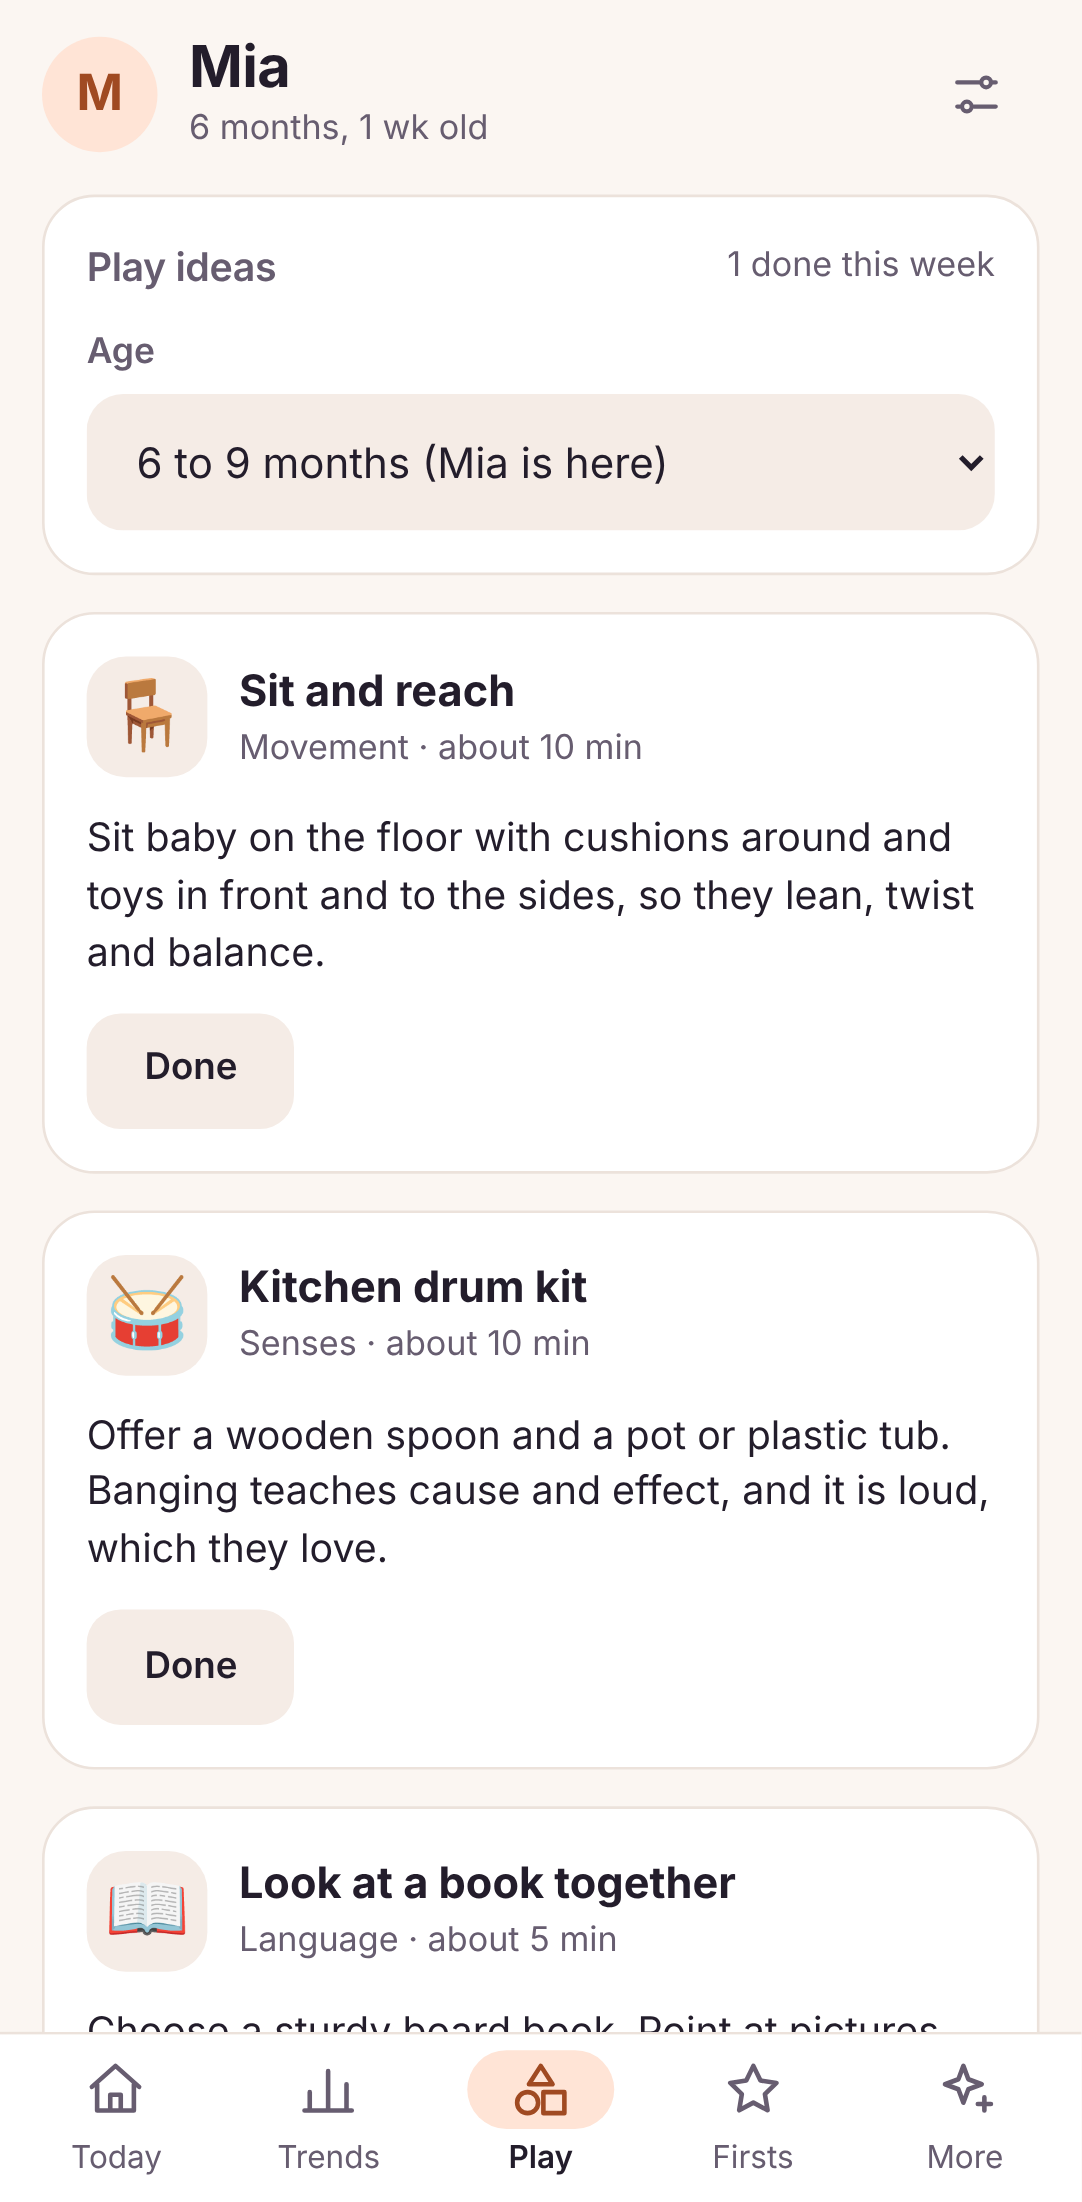
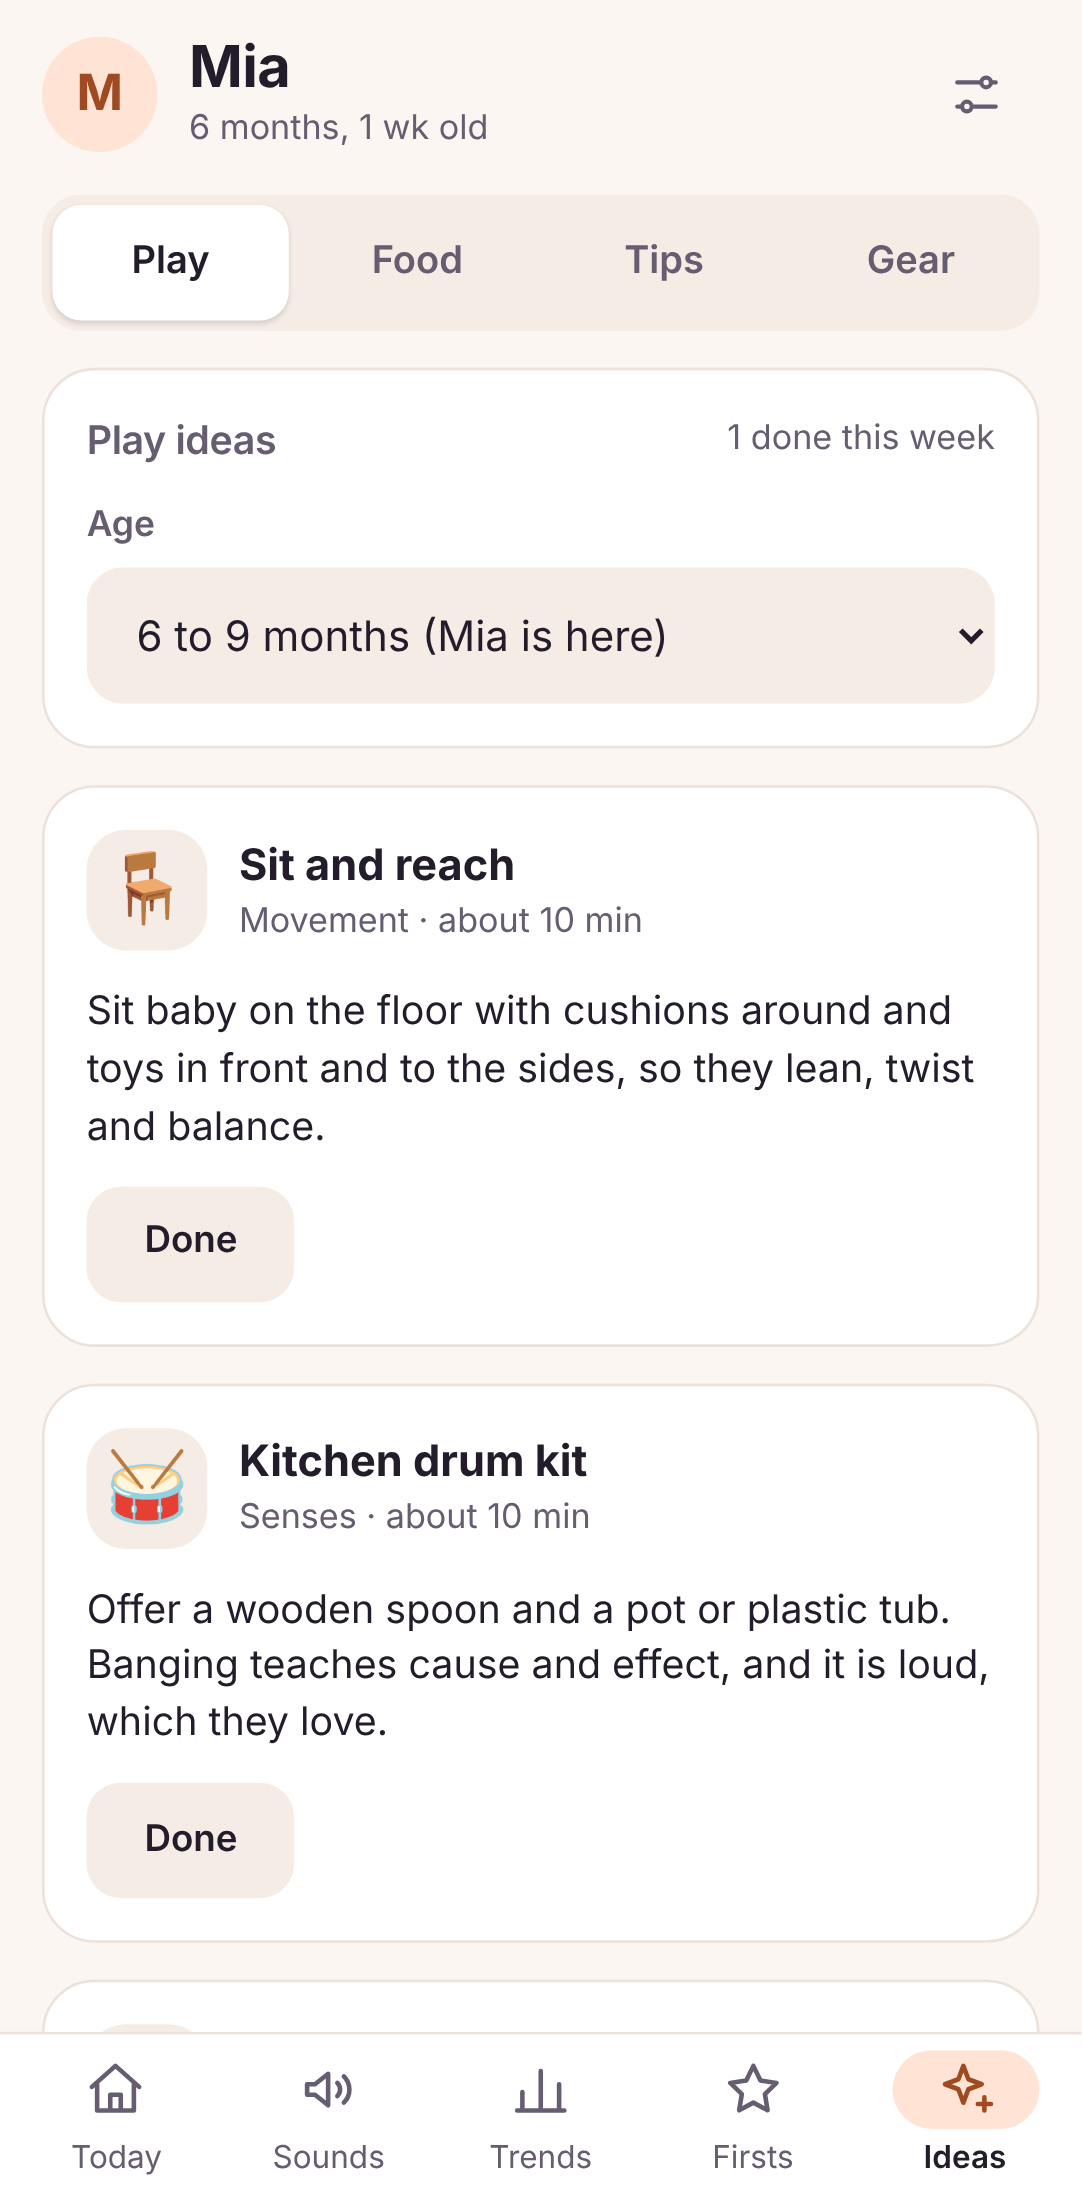
TinyLog: reorganised screens and code; Sounds tab
Tabs are now Today, Sounds, Trends, Firsts, Ideas:
- Sounds has its own tab, a shortcut on the Sleep sheet, and a
  now-playing strip on every other tab
- Firsts holds what the parent records (words, foods)
- Ideas holds what the app suggests (play, food, tips, gear)

Code: app.js split into a shell, ui, store, forms and one module per
screen under www/js/screens; behaviour unchanged (verified against a
recorded baseline).

Claude-Session: https://claude.ai/code/session_013HDZvHYQ4SAEx6fT2XKnji

diff --git a/baby-tracker/www/js/logic.js b/baby-tracker/www/js/logic.js
@@ -270,7 +270,7 @@ export function buildTips(state, now = Date.now()) {
     if (months < 5.5) {
       tips.push({ icon: '🍼', title: 'Milk is the whole menu for now', text: 'Until around 6 months, breast milk or formula gives babies everything they need. Solids usually start at about 6 months.' });
     } else if (state.foods.length === 0 && months < 9) {
-      tips.push({ icon: '🥑', title: 'Ready for first foods?', text: `Most babies start solids at around 6 months. Signs of readiness: sitting with support, steady head control, and reaching for your food. See Food ideas under Firsts for gentle starters.` });
+      tips.push({ icon: '🥑', title: 'Ready for first foods?', text: `Most babies start solids at around 6 months. Signs of readiness: sitting with support, steady head control, and reaching for your food. See Food under Ideas for gentle starters.` });
     } else {
       const next = untriedFoods(state, months).slice(0, 3).map((f) => f.name);
       if (next.length) tips.push({ icon: '🥕', title: 'Foods to try next', text: `${name} has not tried ${next.join(', ')} yet. Offer one new food at a time so any reaction is easy to spot.` });

diff --git a/baby-tracker/www/js/sounds.js b/baby-tracker/www/js/sounds.js
@@ -11,7 +11,7 @@ const TYPES = [
   ['pink', 'Pink', 'Softer and deeper, like steady rain.'],
   ['brown', 'Brown', 'A low rumble, like a waterfall far away or the sound of the womb.'],
 ];
-const DURATIONS = [[15, '15 min'], [30, '30 min'], [60, '1 hour'], [0, 'Until I stop']];
+const DURATIONS = [[15, '15 min'], [30, '30 min'], [60, '1 hour'], [0, 'No timer']];
 const PREF_KEY = 'tinylog.sound';
 const FADE_MS = 8000;
 

diff --git a/baby-tracker/README.md b/baby-tracker/README.md
@@ -11,12 +11,12 @@ keep a gear wishlist, and get suggestions, both built-in and from AI.
 
 | Tab | Details |
 |---|---|
-| **Today** | One-tap Pee, Poop and Spit-up; Feed (breastfeeding timer with left/right and pause, or enter minutes; bottle amount; solids), pre-filled from the last feed; Sleep with start/stop or past entry; time since last feed and diaper; daily totals; tap any entry to edit; delete with undo; browse previous days |
-| **Trends** | Daily averages over 7, 14 or 30 days (the numbers a doctor asks for); bar charts for sleep (with the typical range for the age), milk feeds, and wet/dirty diapers; a 24-hour day-pattern strip showing when sleep and feeds happen; weight and height with a chart each |
-| **Play** | Activity ideas for the baby's age (30 ideas across six age bands): what to do, what it supports, how long; mark as done to keep count |
-| **Firsts** | First words with the age they were said; first foods with reaction and possible-allergy flag (logging a solid feed adds new foods automatically); starter-food ideas by age with safe preparation, allergen labels, and what to wait on |
-| **More** | Built-in tips from your own logs (work offline) and **Ask the AI** when an AI service is set; Gear wishlist with category, price, shop link and priority, plus ideas by age |
-| **Settings** | Metric or imperial, currency, backup to a file and restore, delete everything |
+| **Today** | One-tap Pee, Poop and Spit-up; Feed (breastfeeding timer with left/right and pause, or enter minutes; bottle amount; solids), pre-filled from the last feed; Sleep with start/stop or past entry, and "Start sleep with white noise" to start both at once; time since last feed and diaper; daily totals; tap any entry to edit; delete with undo; browse previous days |
+| **Sounds** | White, pink or brown noise for settling, with a timer (15 min, 30 min, 1 hour, or no timer) and volume. On the phone it keeps playing with the screen off (a notification has a Stop button) and can be cast to a Chromecast or Google Nest speaker on the same Wi-Fi; Bluetooth speakers work with no setup. Also reached from the Sleep sheet and from the "Sleep started" message; while a sound plays, a slim strip with Stop sits at the top of every other tab |
+| **Trends** | **Daily**: averages over 7, 14 or 30 days (the numbers a doctor asks for); bar charts for sleep (with the typical range for the age), milk feeds, and wet/dirty diapers; a 24-hour day-pattern strip showing when sleep and feeds happen. **Growth**: weight and height with a chart each |
+| **Firsts** | What you record. **Words**: first words with the age they were said. **Foods**: first foods with reaction and possible-allergy flag (logging a solid feed adds new foods automatically) |
+| **Ideas** | What the app suggests. **Play**: activity ideas for the baby's age (30 ideas across six age bands): what to do, what it supports, how long; mark as done to keep count. **Food**: starter-food ideas by age with safe preparation, allergen labels, and what to wait on; "Tried it" adds the food to Firsts. **Tips**: built-in tips from your own logs (work offline) and **Ask the AI** when an AI service is set. **Gear**: wishlist with category, price, shop link and priority, plus ideas by age |
+| **Settings** (top-right icon) | Metric or imperial, currency, AI service address, backup to a file and restore, delete everything |
 
 All data stays on the phone. Nothing is sent anywhere unless you ask the AI a question,
 and then only a short summary of the logs is sent.
@@ -78,6 +78,18 @@ summaries to your server), screenshots, and the 512 px icon in `store/`. The app
 `android/app/build.gradle` before the first upload if you want your own, because it cannot
 be changed afterwards.
 
+## White noise and casting, technically
+
+The sound is generated on the phone, not streamed from the internet. `android/.../noise/NoiseService`
+is a foreground service (type `mediaPlayback`), so Android keeps it alive with the screen off. For
+casting, the same service serves an endless WAV stream on the home Wi-Fi and the Google Cast SDK
+tells the speaker to play it through the standard media receiver, so no hosting or Cast developer
+registration is needed. When the timer ends or the speaker disconnects, the sound stops; it never
+falls back to the phone's own speaker by surprise.
+
+Before publishing: declare the foreground service (media playback) in the Play Console, and test
+background playback and casting on real devices. Neither can be exercised by the automated tests.
+
 ## A note on health information
 
 TinyLog gives general information, not medical advice. The built-in tips and food ideas
@@ -88,14 +100,33 @@ the countries you publish in.
 ## Layout
 
 ```
-www/            the app: HTML, CSS and JavaScript modules, no build step
+www/                the app: HTML, CSS and JavaScript modules, no build step
+  index.html        the page: header, now-playing strip, screen area, tab bar
+  css/style.css     all styles, in sections that follow the modules below
+  js/app.js         the shell: header, bottom tabs, render loop
+  js/ui.js          shared building blocks: the h() DOM helper, toast, bottom sheet, segments, fields
+  js/store.js       saved data (load, clean up, save) and where the parent is in the app
+  js/forms.js       the add/edit form sheet, shared inputs, delete with undo
+  js/screens/
+    today.js        Today: quick-log buttons, breastfeeding timer card, totals, timeline, welcome
+    events.js       the feed, sleep, diaper and spit-up sheets; starting a sleep or the timer
+    trends.js       Trends > Daily: averages, bar charts, day pattern
+    growth.js       Trends > Growth: weight and height
+    firsts.js       Firsts: first words and first foods
+    ideas.js        Ideas: the Play / Food / Tips / Gear switch
+    play.js         Ideas > Play
+    food-ideas.js   Ideas > Food
+    tips.js         Ideas > Tips, and Ask the AI
+    gear.js         Ideas > Gear
+    settings.js     Settings and backup (bottom sheet)
+  js/sounds.js      Sounds: the screen and the now-playing strip
+  js/logic.js       units, ages, daily summaries, built-in tips, AI summary (no DOM; unit-tested)
+  js/chart.js       line, bar and day-pattern charts
+  js/content.js     food ideas and gear ideas
   js/activities.js  play ideas by age
-  js/icons.js     line icons
-  js/logic.js     units, ages, daily summaries, built-in tips, AI summary
-  js/content.js   food ideas and gear ideas
-  js/chart.js     line, bar and day-pattern charts
-  js/app.js       screens and forms
-android/        Android project generated by Capacitor
-ai-server/      backend for AI suggestions
-test/           tests for logic.js
+  js/icons.js       line icons
+  js/config.js      default AI service address
+android/            Android project generated by Capacitor
+ai-server/          backend for AI suggestions
+test/               tests for logic.js
 ```
